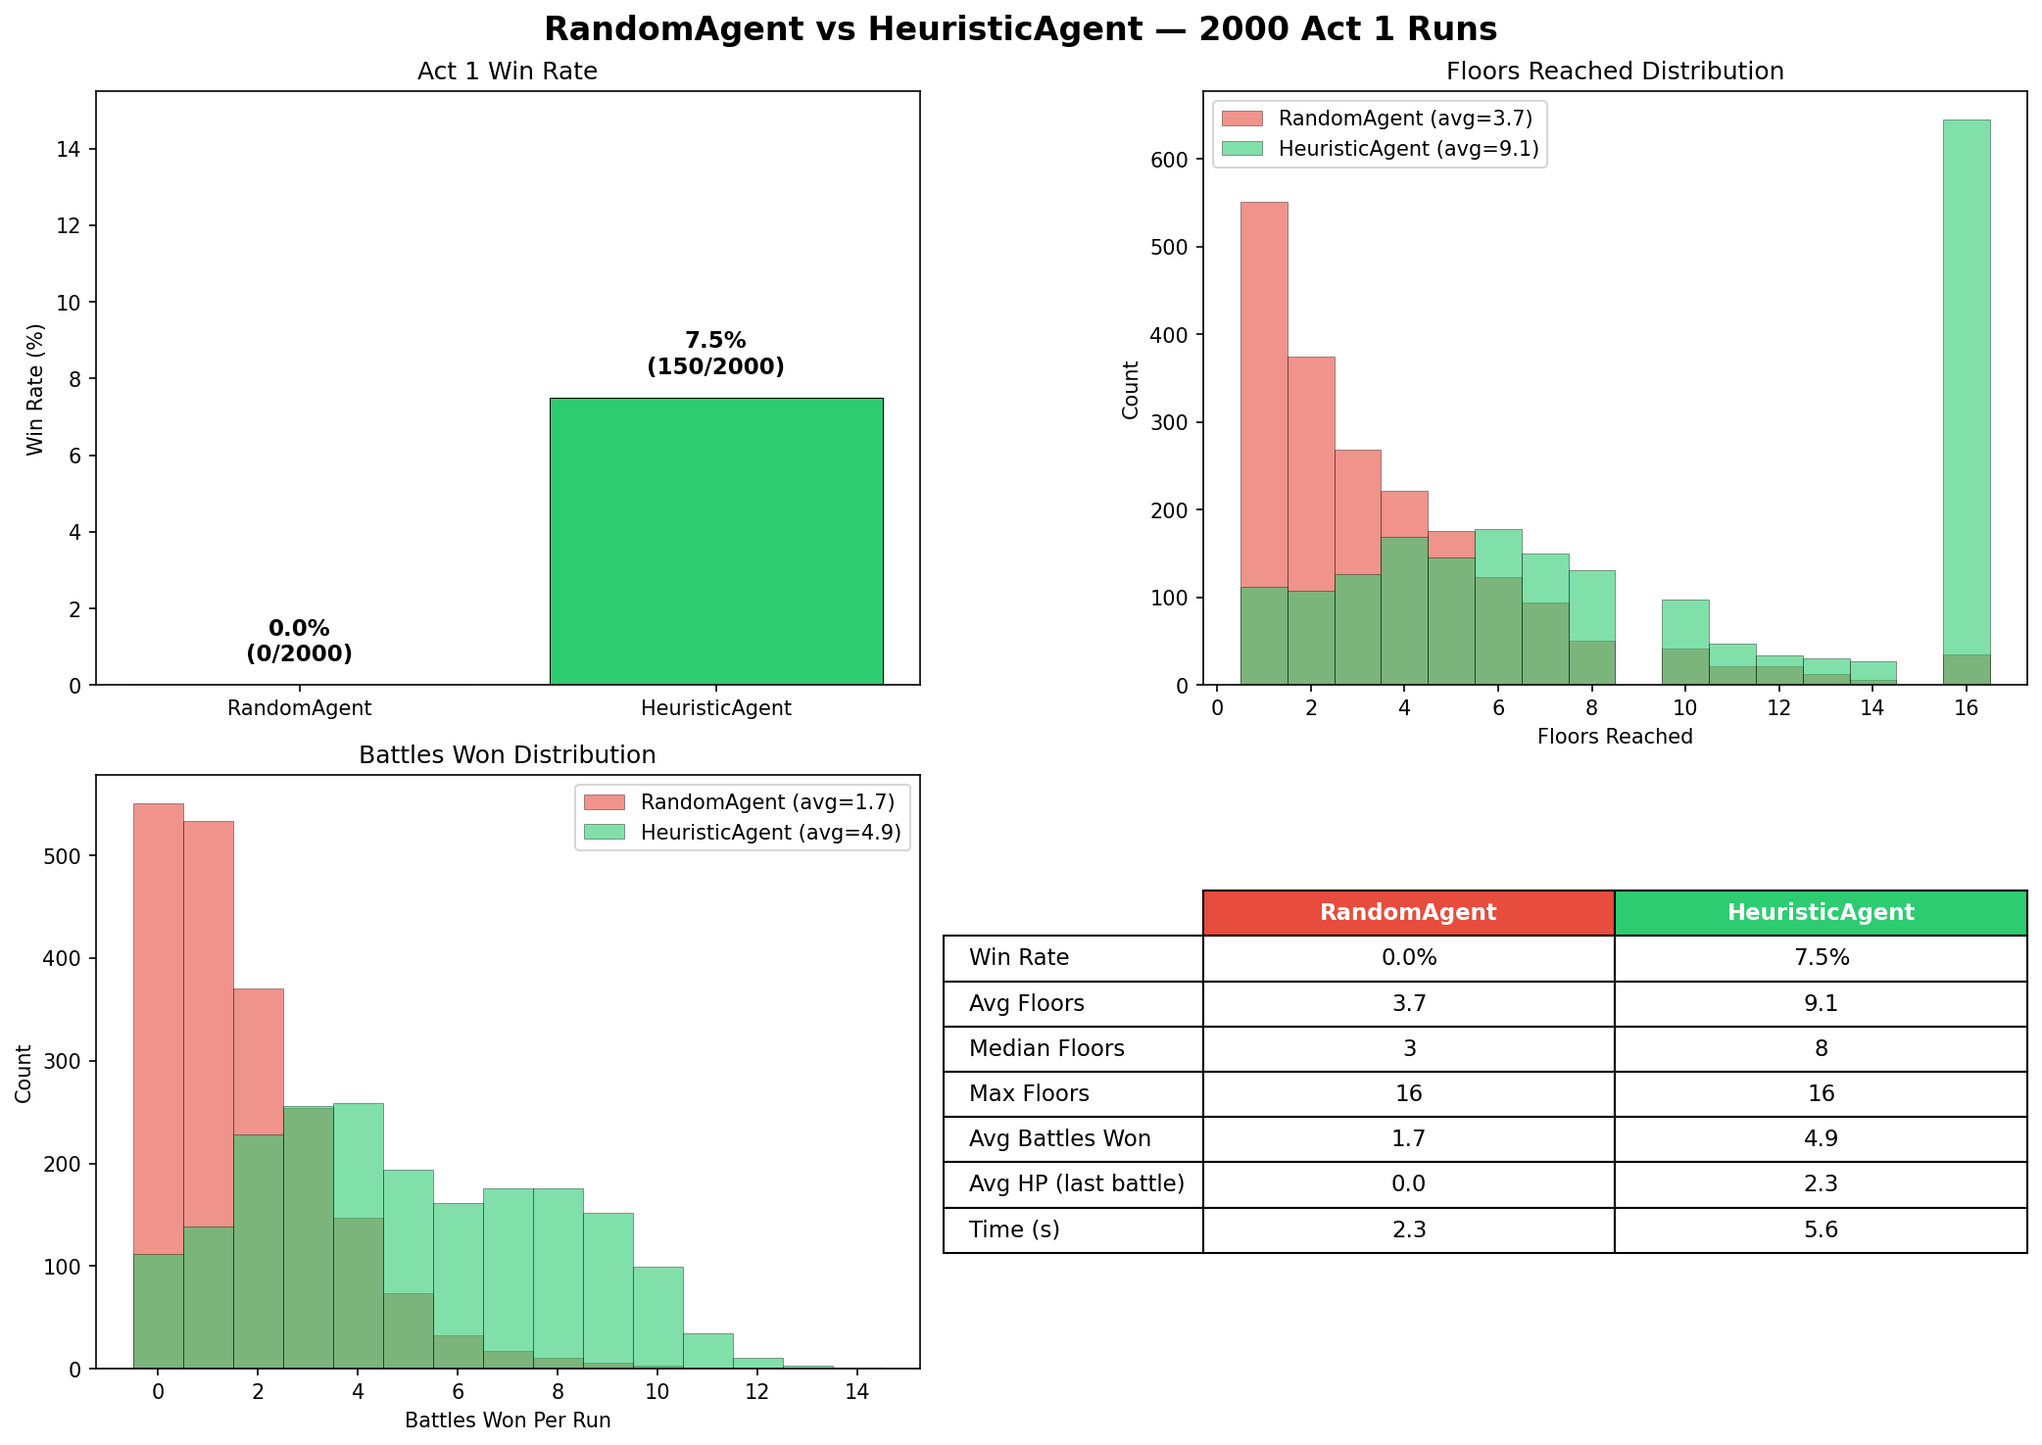
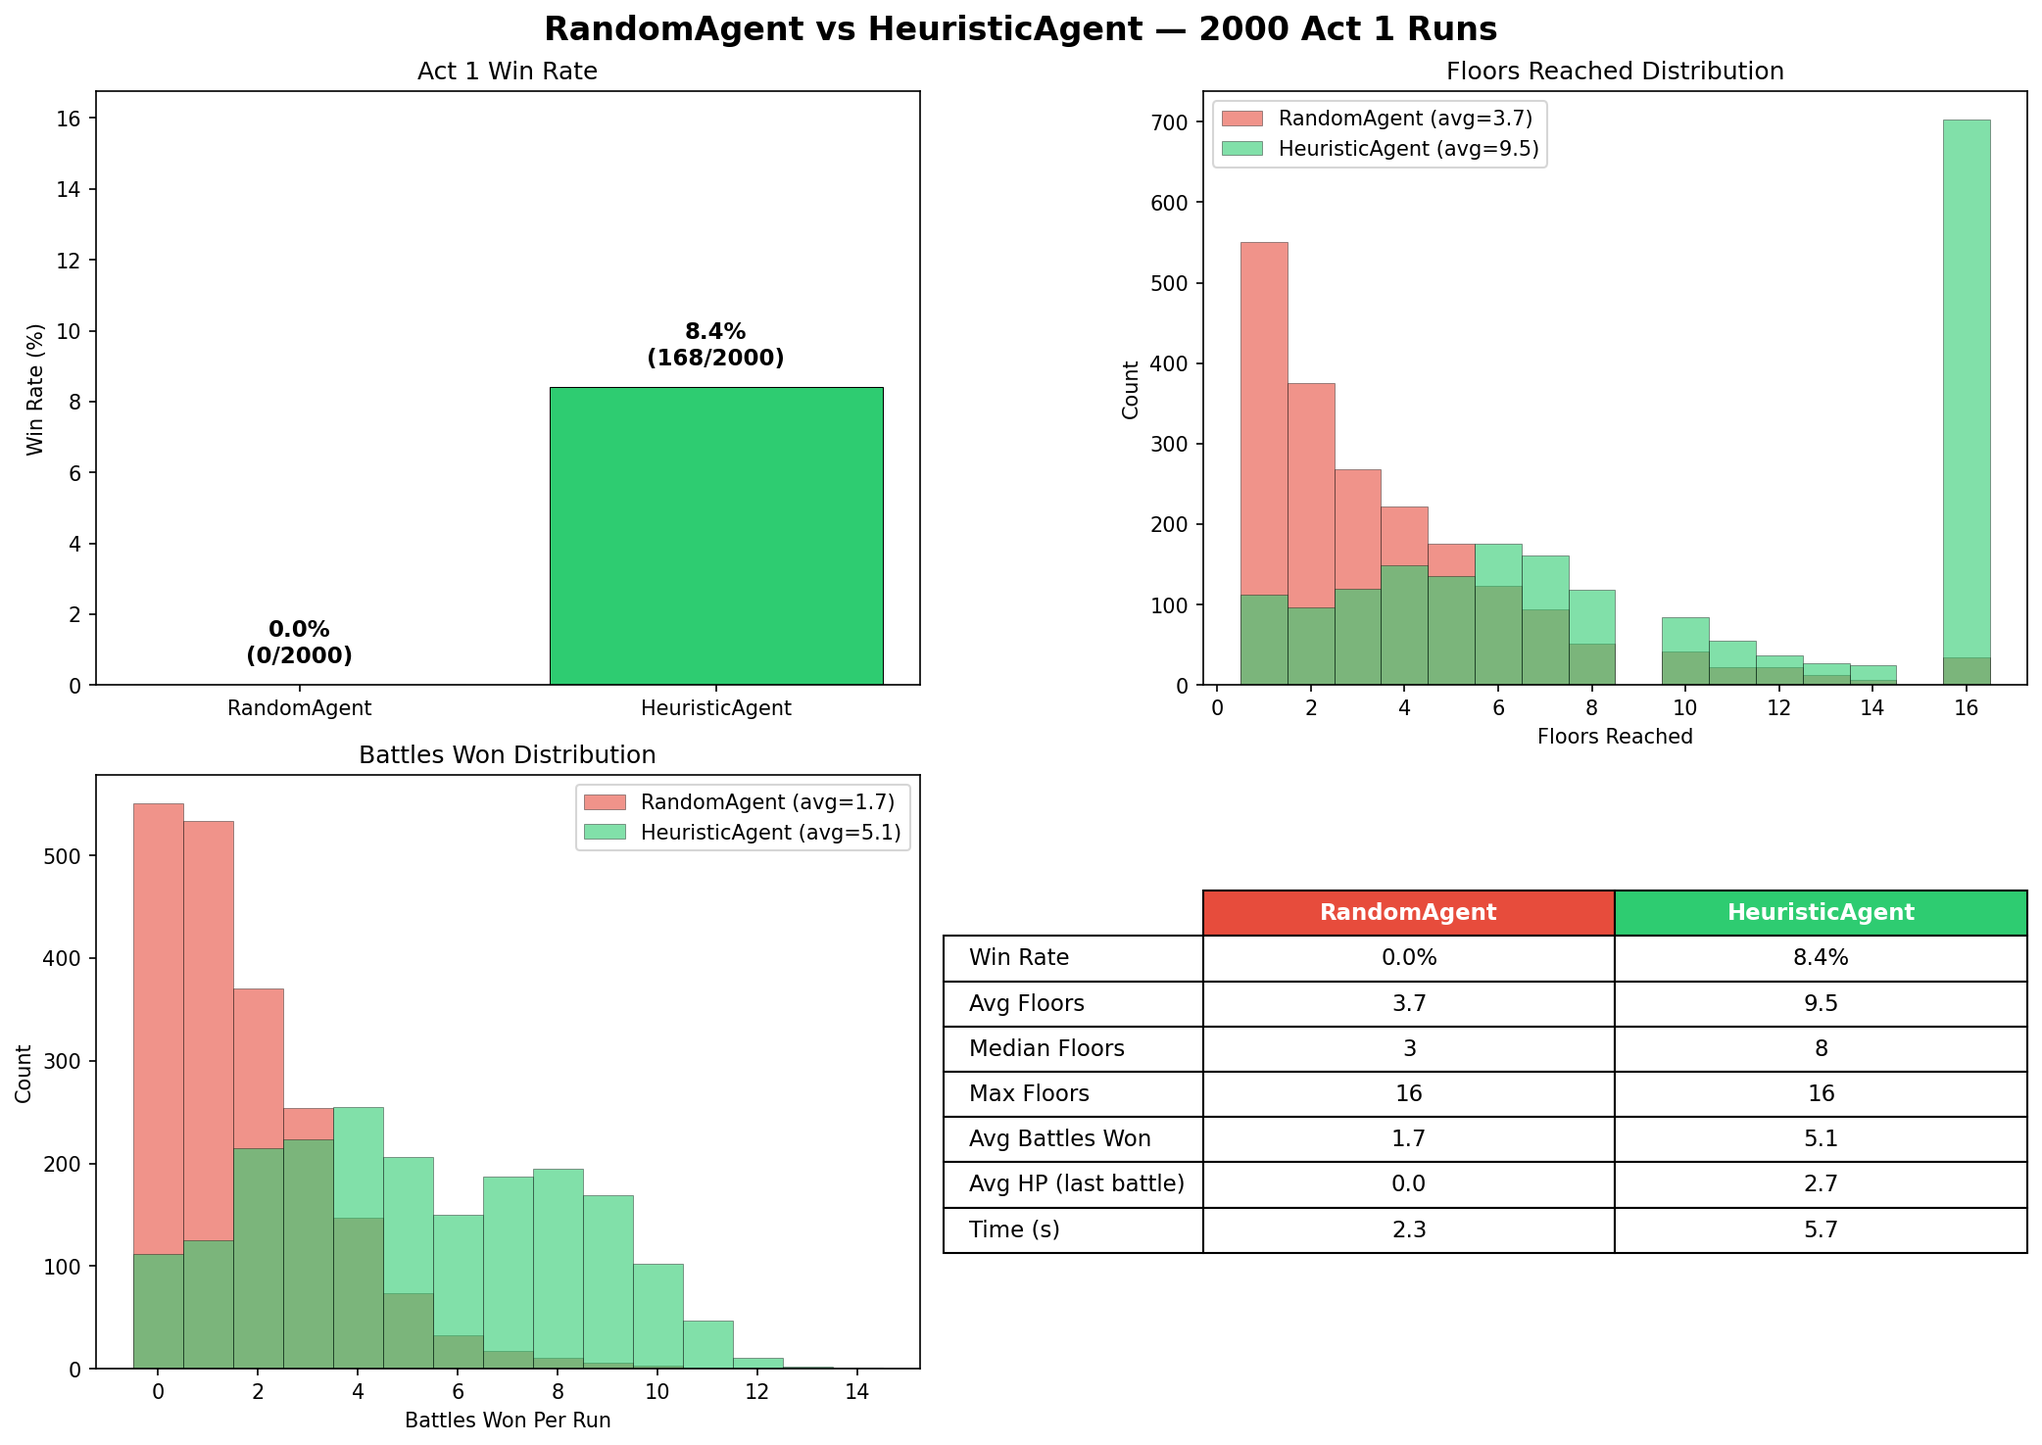
Tune HeuristicAgent: smarter potions, Nob survival, looser rewards (7.5% → 8.4%)
Three data-driven improvements based on 2000-run diagnosis:

- Smarter potion usage: slavers added to hard-fight list, use offensive
  potions in multi-enemy fights turn 1, proactive defense at HP < 50%
  (was 30%), fire potion kill threshold raised to 25 HP
- Nob survival: allow skill cards through when incoming damage is lethal
  (was blanket skill filter). Nob WR 56% → 61%
- Looser card rewards: never skip when deck < 18 cards, deck-size penalty
  delayed to 22+ cards, skip threshold lowered. Slavers WR 21% → 27%
- Rest threshold raised to 60% (was 50%), smith only above 75% (was 65%)

Diagnosis script added (scripts/diagnose_agent.py) showing remaining
ceiling is structural: slavers (27% of deaths), Guardian (2% WR),
and loosely-emulated events/shops limiting deck quality.

3 new tests (504 total).

diff --git a/tests/sim/play_agents/test_heuristic_agent.py b/tests/sim/play_agents/test_heuristic_agent.py
@@ -362,7 +362,7 @@ class TestCardPlayPriority:
         assert cd.type == CardType.ATTACK
 
     def test_nob_filter_skills(self, agent: HeuristicAgent, registry: ContentRegistry):
-        """Should not play skills against Gremlin Nob."""
+        """Should not play skills against Gremlin Nob when not lethal."""
         nob = _make_enemy(enemy_id="gremlin_nob", hp=100)
         nob.name = "Gremlin Nob"
         nob.intent_damage = 14
@@ -376,6 +376,24 @@ class TestCardPlayPriority:
         assert result is not None
         _, cd, _ = result
         assert cd.type == CardType.ATTACK
+
+    def test_nob_allows_skills_when_lethal(self, agent: HeuristicAgent, registry: ContentRegistry):
+        """Should allow skills against Nob when incoming is lethal."""
+        nob = _make_enemy(enemy_id="gremlin_nob", hp=100)
+        nob.name = "Gremlin Nob"
+        nob.intent_damage = 30
+        nob.intent_hits = 1
+        battle = _make_battle(
+            hand_ids=["defend", "shrug_it_off"],
+            player=_make_player(current_hp=20),
+            enemies=[nob],
+        )
+        playable = _playable(registry, battle)
+        result = agent.choose_card_to_play(battle, playable)
+        assert result is not None
+        _, cd, _ = result
+        # Should play a block card to survive
+        assert cd.type == CardType.SKILL
 
     def test_zero_cost_plays(self, agent: HeuristicAgent, registry: ContentRegistry):
         """Should play zero-cost cards when nothing higher priority."""
@@ -446,7 +464,7 @@ class TestCardReward:
             registry.get_card("pommel_strike"),
             registry.get_card("anger"),
         ]
-        # Already have 2 pommel_strikes — -30 penalty (77 -> 47 < anger 65)
+        # Already have 2 pommel_strikes — -20 penalty (77 -> 57 < anger 65)
         deck = ["pommel_strike", "pommel_strike"] + ["strike"] * 5 + ["defend"] * 4
         result = agent.choose_card_reward(cards, deck)
         assert result is not None
@@ -459,10 +477,10 @@ class TestCardReward:
             registry.get_card("strike"),
             registry.get_card("defend"),
         ]
-        # Large deck with bad options
-        deck = ["strike"] * 15 + ["defend"] * 10
+        # Large deck (26 cards) with bad options
+        deck = ["strike"] * 16 + ["defend"] * 10
         result = agent.choose_card_reward(cards, deck)
-        # Strike score 10, defend 8, both penalized by (25-15)*3=30 → negative
+        # Strike score 10, defend 8, both penalized by (26-20)*2=12 → negative
         assert result is None
 
     def test_empty_reward(self, agent: HeuristicAgent):
@@ -476,17 +494,17 @@ class TestCardReward:
 
 class TestRestAction:
     def test_rest_when_low_hp(self, agent: HeuristicAgent):
-        player = _make_player(current_hp=30)
+        player = _make_player(current_hp=40)  # 50% HP
         deck = [CardInstance(card_id="bash")]
         assert agent.choose_rest_action(player, deck) == "rest"
 
     def test_smith_when_healthy_and_upgrade_target(self, agent: HeuristicAgent):
-        player = _make_player(current_hp=70)
+        player = _make_player(current_hp=72)  # 90% HP, > 75% threshold
         deck = [CardInstance(card_id="bash")]  # High upgrade priority
         assert agent.choose_rest_action(player, deck) == "smith"
 
     def test_rest_when_healthy_no_upgrade(self, agent: HeuristicAgent):
-        player = _make_player(current_hp=70)
+        player = _make_player(current_hp=72)  # 90% HP
         deck = [CardInstance(card_id="strike")]  # Low upgrade priority
         assert agent.choose_rest_action(player, deck) == "rest"
 
@@ -533,6 +551,7 @@ class TestPotionUsage:
         assert pdef.id == "block_potion"
 
     def test_saves_potions_normally(self, agent: HeuristicAgent, registry: ContentRegistry):
+        """Potions saved when full HP, non-hard fight, single enemy."""
         enemy = _make_enemy(hp=50)
         enemy.intent_damage = 5
         enemy.intent_hits = 1
@@ -554,6 +573,40 @@ class TestPotionUsage:
         _, pdef, target = result
         assert pdef.id == "fire_potion"
         assert target == 0
+
+    def test_multi_enemy_offense(self, agent: HeuristicAgent, registry: ContentRegistry):
+        """Should use offensive potions turn 1 in multi-enemy fights."""
+        e1 = _make_enemy(hp=50)
+        e1.intent_damage = 10
+        e1.intent_hits = 1
+        e2 = _make_enemy(enemy_id="cultist", hp=50)
+        e2.name = "Cultist"
+        e2.intent_damage = 6
+        e2.intent_hits = 1
+        battle = _make_battle(enemies=[e1, e2])
+        battle.turn = 1
+        strength_potion = registry.get_potion("strength_potion")
+        available = [(0, strength_potion)]
+        result = agent.choose_potion_to_use(battle, available)
+        assert result is not None
+        _, pdef, _ = result
+        assert pdef.id == "strength_potion"
+
+    def test_proactive_defense(self, agent: HeuristicAgent, registry: ContentRegistry):
+        """Should use defensive potions when HP < 50% and taking damage."""
+        enemy = _make_enemy(hp=50)
+        enemy.intent_damage = 10
+        enemy.intent_hits = 1
+        battle = _make_battle(
+            player=_make_player(current_hp=35),  # 43.75% HP
+            enemies=[enemy],
+        )
+        block_potion = registry.get_potion("block_potion")
+        available = [(0, block_potion)]
+        result = agent.choose_potion_to_use(battle, available)
+        assert result is not None
+        _, pdef, _ = result
+        assert pdef.id == "block_potion"
 
 
 # ======================================================================

diff --git a/src/sts_gen/sim/play_agents/heuristic_agent.py b/src/sts_gen/sim/play_agents/heuristic_agent.py
@@ -33,6 +33,7 @@ if TYPE_CHECKING:
 _HARD_FIGHT_IDS = frozenset({
     "gremlin_nob", "lagavulin", "sentry",
     "the_guardian", "hexaghost", "slime_boss",
+    "blue_slaver", "red_slaver",
 })
 
 # Card reward tier scores (0-100)
@@ -168,12 +169,15 @@ class HeuristicAgent(PlayAgent):
         incoming = self._incoming_damage(battle)
         nob_fight = self._is_nob_fight(battle)
 
-        # Filter out skills in Nob fight
+        # Filter out skills in Nob fight — unless incoming is lethal
         if nob_fight:
-            playable_cards = [
-                (ci, cd) for ci, cd in playable_cards
-                if cd.type != CardType.SKILL
-            ]
+            effective_incoming = incoming - player.block
+            lethal = effective_incoming >= player.current_hp and effective_incoming > 0
+            if not lethal:
+                playable_cards = [
+                    (ci, cd) for ci, cd in playable_cards
+                    if cd.type != CardType.SKILL
+                ]
             if not playable_cards:
                 return None
 
@@ -256,21 +260,25 @@ class HeuristicAgent(PlayAgent):
         for card in cards:
             score = _CARD_TIER_SCORES.get(card.id, 30)
 
-            # Penalize adding cards to a bloated deck
-            if deck_size > 15 and score < 70:
-                score -= (deck_size - 15) * 3
+            # Penalize adding cards to a bloated deck (only kicks in past 22)
+            if deck_size > 22 and score < 70:
+                score -= (deck_size - 22) * 2
 
             # Penalize duplicates
             copies = sum(1 for cid in deck if cid == card.id)
             if copies >= 2:
-                score -= 30
+                score -= 20
 
             if score > best_score:
                 best_score = score
                 best_card = card
 
-        # Skip if best option is bad and deck is large
-        if best_score < 25 and deck_size > 20:
+        # Never skip when deck is thin — any card helps
+        if deck_size < 18:
+            return best_card
+
+        # Skip only if best option is truly bad and deck is large
+        if best_score < 15 and deck_size > 25:
             return None
 
         return best_card
@@ -286,6 +294,7 @@ class HeuristicAgent(PlayAgent):
         player = battle.player
         incoming = self._incoming_damage(battle)
         primary_idx = self._best_target(battle)
+        n_living = len(battle.living_enemies)
 
         # --- Lethal defense: use defensive potion if incoming would kill ---
         effective_incoming = incoming - player.block
@@ -296,27 +305,43 @@ class HeuristicAgent(PlayAgent):
                     return slot, pdef, target
 
         # --- Hard fight offense: use offensive potions turns 1-2 ---
-        if self._is_fight_hard(battle) and battle.turn <= 2:
+        hard = self._is_fight_hard(battle)
+        if hard and battle.turn <= 2:
             for slot, pdef in available_potions:
                 if pdef.id in ("strength_potion", "fear_potion", "dexterity_potion"):
                     target = self._resolve_potion_target(pdef, battle, primary_idx)
                     return slot, pdef, target
 
-        # --- Secure kill: fire potion can kill a low-HP enemy ---
+        # --- Multi-enemy offense: use offensive potions turn 1 ---
+        if n_living >= 2 and battle.turn <= 1:
+            for slot, pdef in available_potions:
+                if pdef.id in ("strength_potion", "fear_potion"):
+                    target = self._resolve_potion_target(pdef, battle, primary_idx)
+                    return slot, pdef, target
+
+        # --- Secure kill: fire/explosive potion can kill a low-HP enemy ---
         for slot, pdef in available_potions:
-            if pdef.id == "fire_potion":
+            if pdef.id in ("fire_potion", "explosive_potion"):
                 for i, enemy in enumerate(battle.enemies):
-                    if not enemy.is_dead and (enemy.current_hp + enemy.block) <= 20:
+                    if not enemy.is_dead and (enemy.current_hp + enemy.block) <= 25:
                         return slot, pdef, i
 
-        # --- Low HP defense: use any defensive potion when HP < 30% ---
+        # --- Proactive defense: use defensive potions when HP < 50% ---
         hp_ratio = player.current_hp / max(player.max_hp, 1)
-        if hp_ratio < 0.30:
+        if hp_ratio < 0.50 and incoming > 0:
             for slot, pdef in available_potions:
                 if pdef.id in (
                     "block_potion", "regen_potion", "weak_potion",
                     "dexterity_potion",
                 ):
+                    target = self._resolve_potion_target(pdef, battle, primary_idx)
+                    return slot, pdef, target
+
+        # --- Hard fight: use any remaining offensive potion ---
+        if hard and battle.turn <= 3:
+            for slot, pdef in available_potions:
+                if pdef.id in ("fire_potion", "explosive_potion", "energy_potion",
+                               "swift_potion"):
                     target = self._resolve_potion_target(pdef, battle, primary_idx)
                     return slot, pdef, target
 
@@ -330,10 +355,10 @@ class HeuristicAgent(PlayAgent):
     ) -> str:
         hp_ratio = player.current_hp / max(player.max_hp, 1)
 
-        if hp_ratio <= 0.50:
+        if hp_ratio <= 0.60:
             return "rest"
 
-        if hp_ratio > 0.65:
+        if hp_ratio > 0.75:
             # Check if we have a high-priority upgrade target
             for ci in deck:
                 if not ci.upgraded and _UPGRADE_SCORES.get(ci.card_id, 0) >= 80:

diff --git a/scripts/diagnose_agent.py b/scripts/diagnose_agent.py
@@ -1,0 +1,121 @@
+"""Diagnose where HeuristicAgent runs are dying and why.
+
+Usage:
+    uv run python scripts/diagnose_agent.py [--runs N]
+"""
+
+from __future__ import annotations
+
+import argparse
+from collections import Counter
+
+from sts_gen.sim.content.registry import ContentRegistry
+from sts_gen.sim.core.rng import GameRNG
+from sts_gen.sim.play_agents.heuristic_agent import HeuristicAgent
+from sts_gen.sim.runner import BatchRunner
+
+
+def diagnose(n_runs: int = 2000) -> None:
+    registry = ContentRegistry()
+    registry.load_vanilla_cards()
+    registry.load_vanilla_enemies()
+    registry.load_vanilla_status_effects()
+    registry.load_vanilla_relics()
+    registry.load_vanilla_potions()
+    registry.load_vanilla_encounters()
+
+    runner = BatchRunner(registry, agent_class=HeuristicAgent)
+    results = runner.run_full_act_batch(n_runs=n_runs, base_seed=0)
+
+    # --- Death analysis ---
+    killed_by: Counter[str] = Counter()
+    death_floor: Counter[int] = Counter()
+    wins = 0
+    losses = 0
+    win_deck_sizes: list[int] = []
+    loss_deck_sizes: list[int] = []
+    hp_before_death: list[int] = []
+    battle_results_by_enemy: dict[str, dict[str, int]] = {}
+
+    for r in results:
+        if r.final_result == "win":
+            wins += 1
+            win_deck_sizes.append(len(r.cards_in_deck))
+        else:
+            losses += 1
+            loss_deck_sizes.append(len(r.cards_in_deck))
+            death_floor[r.floors_reached] += 1
+            # Last battle is the one that killed us
+            if r.battles:
+                last = r.battles[-1]
+                enemy_key = "+".join(sorted(last.enemy_ids))
+                killed_by[enemy_key] += 1
+                hp_before_death.append(last.player_hp_start)
+
+        # Per-enemy win/loss
+        for b in r.battles:
+            enemy_key = "+".join(sorted(b.enemy_ids))
+            if enemy_key not in battle_results_by_enemy:
+                battle_results_by_enemy[enemy_key] = {"win": 0, "loss": 0}
+            battle_results_by_enemy[enemy_key][b.result] += 1
+
+    print(f"=== HeuristicAgent Diagnosis ({n_runs} runs) ===\n")
+    print(f"Wins: {wins} ({wins/n_runs*100:.1f}%)")
+    print(f"Losses: {losses} ({losses/n_runs*100:.1f}%)")
+
+    print(f"\n--- Killed By (top 15) ---")
+    for enemy, count in killed_by.most_common(15):
+        pct = count / losses * 100
+        print(f"  {enemy:40s} {count:4d} ({pct:.1f}%)")
+
+    print(f"\n--- Death Floor Distribution ---")
+    for floor in sorted(death_floor.keys()):
+        count = death_floor[floor]
+        bar = "#" * (count // max(1, n_runs // 200))
+        print(f"  Floor {floor:2d}: {count:4d} ({count/losses*100:.1f}%) {bar}")
+
+    print(f"\n--- Per-Enemy Win Rate (sorted by loss count) ---")
+    sorted_enemies = sorted(
+        battle_results_by_enemy.items(),
+        key=lambda x: x[1]["loss"],
+        reverse=True,
+    )
+    for enemy, stats in sorted_enemies[:20]:
+        total = stats["win"] + stats["loss"]
+        wr = stats["win"] / total * 100 if total > 0 else 0
+        print(f"  {enemy:40s} {stats['win']:4d}W {stats['loss']:4d}L ({wr:.0f}% WR, {total} fights)")
+
+    print(f"\n--- Deck Size ---")
+    if win_deck_sizes:
+        print(f"  Winning runs: avg={sum(win_deck_sizes)/len(win_deck_sizes):.1f}, "
+              f"min={min(win_deck_sizes)}, max={max(win_deck_sizes)}")
+    if loss_deck_sizes:
+        print(f"  Losing runs:  avg={sum(loss_deck_sizes)/len(loss_deck_sizes):.1f}, "
+              f"min={min(loss_deck_sizes)}, max={max(loss_deck_sizes)}")
+
+    print(f"\n--- HP Entering Fatal Battle ---")
+    if hp_before_death:
+        buckets = Counter()
+        for hp in hp_before_death:
+            if hp <= 10:
+                buckets["1-10"] += 1
+            elif hp <= 20:
+                buckets["11-20"] += 1
+            elif hp <= 30:
+                buckets["21-30"] += 1
+            elif hp <= 40:
+                buckets["31-40"] += 1
+            elif hp <= 50:
+                buckets["41-50"] += 1
+            else:
+                buckets["51+"] += 1
+        for bucket in ["1-10", "11-20", "21-30", "31-40", "41-50", "51+"]:
+            count = buckets.get(bucket, 0)
+            print(f"  HP {bucket:5s}: {count:4d} ({count/len(hp_before_death)*100:.1f}%)")
+
+
+if __name__ == "__main__":
+    parser = argparse.ArgumentParser()
+    parser.add_argument("--runs", type=int, default=2000)
+    args = parser.parse_args()
+    diagnose(args.runs)
